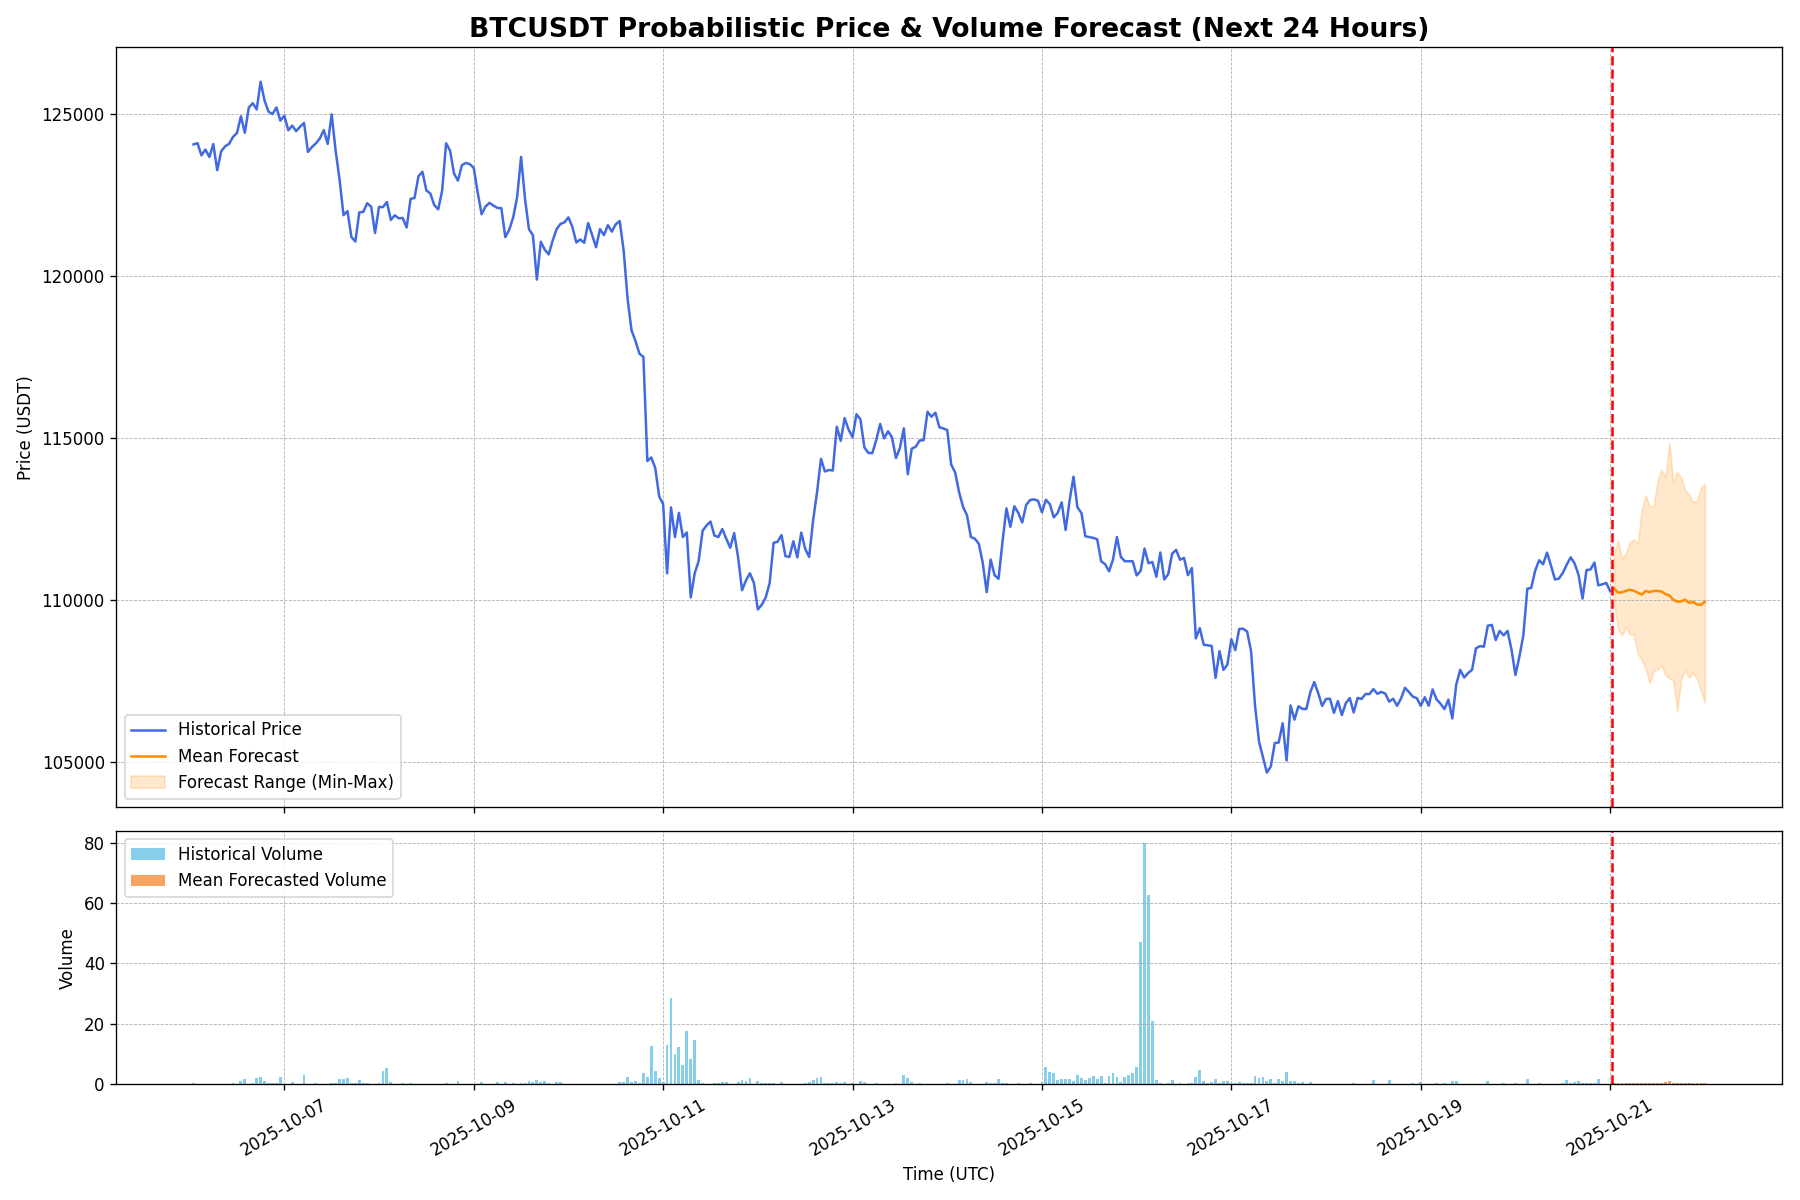
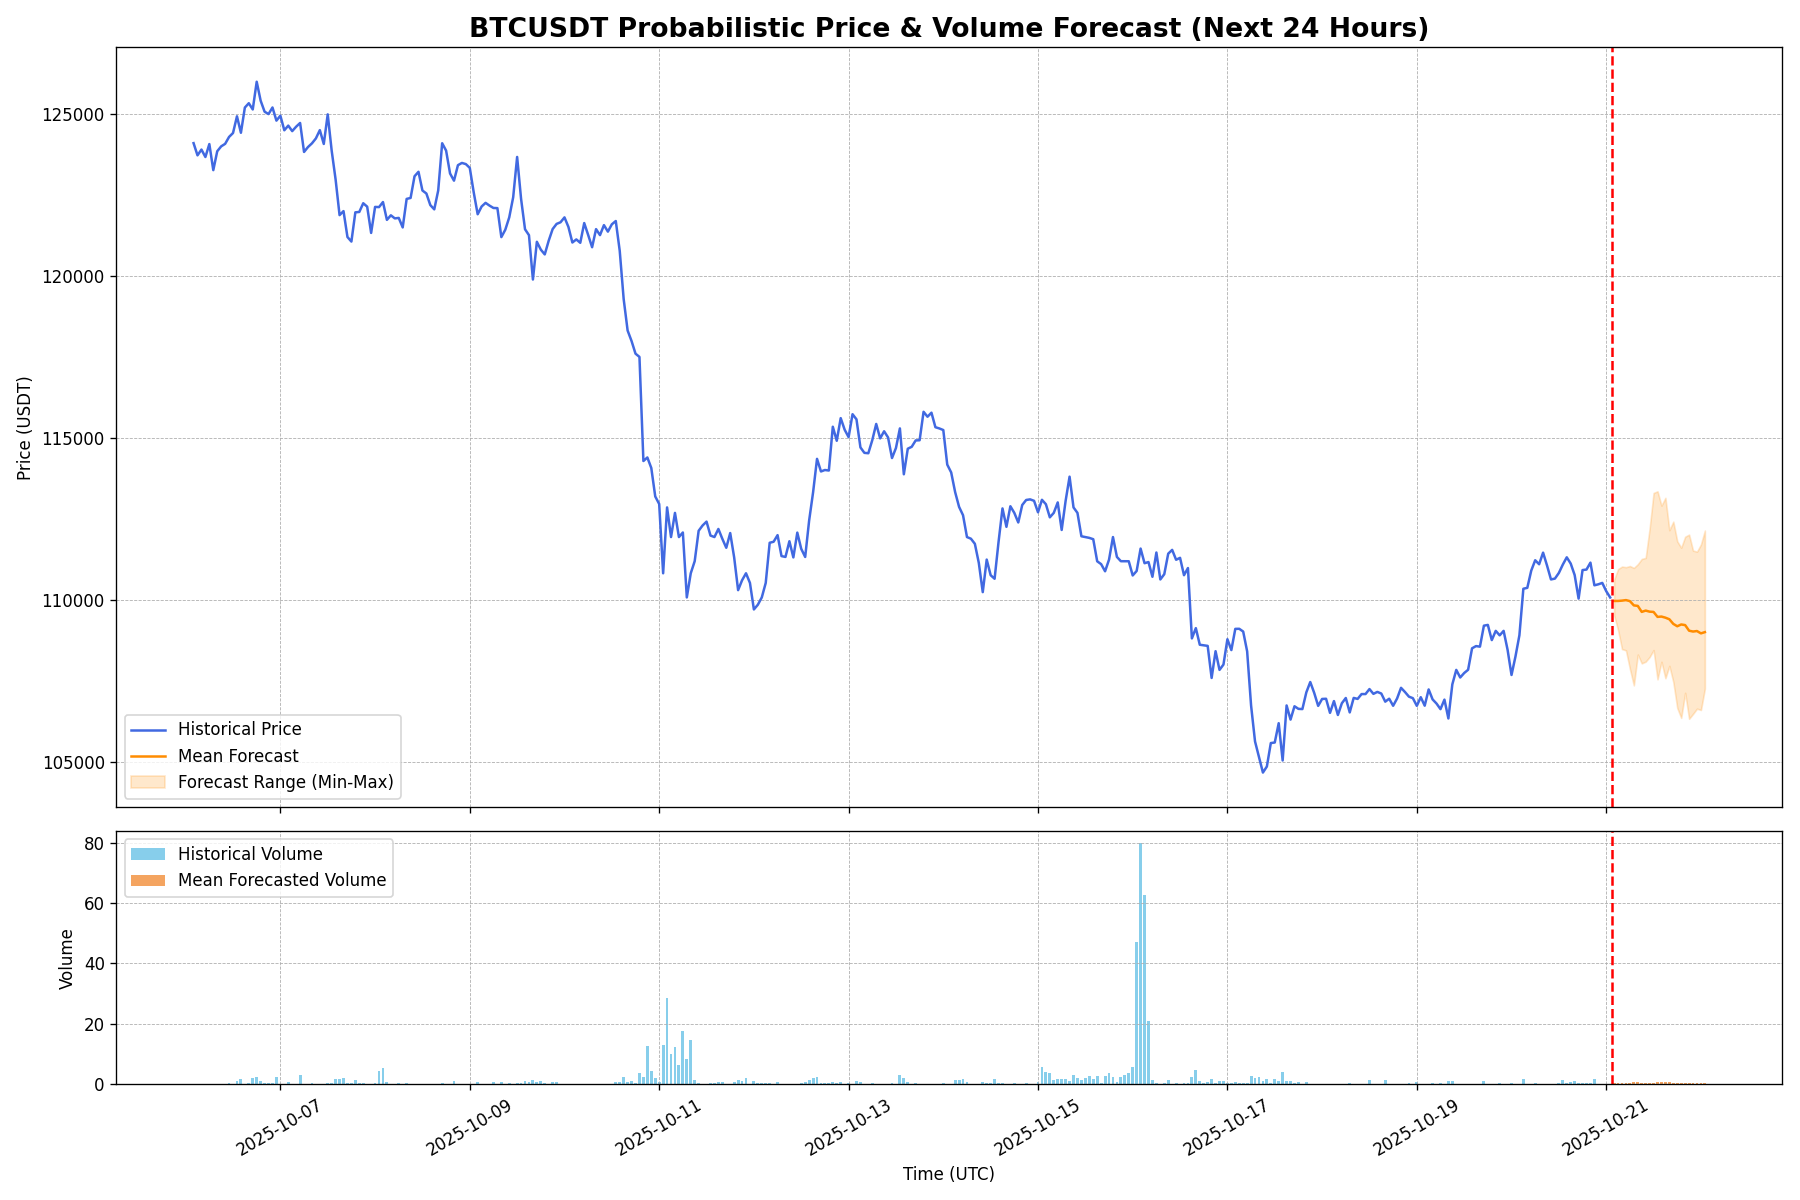
Auto-update forecast for 2025-10-21 02:03 UTC

diff --git a/index.html b/index.html
@@ -22,19 +22,19 @@
         <section id="live-dashboard">
             <h2>Live BTC/USDT Forecast Dashboard</h2>
             <div class="metadata">
-                <span>Last Updated (UTC): <strong id="update-time">2025-10-21 01:52:15</strong></span>
+                <span>Last Updated (UTC): <strong id="update-time">2025-10-21 02:03:51</strong></span>
                 <span>Data Source: Binance | Interval: 1-Hour</span>
             </div>
 
             <div class="metrics-container">
                 <div class="metric-card">
                     <h3>Upside Probability (Next 24h)</h3>
-                    <p class="metric-value" id="upside-prob">30.0%</p>
+                    <p class="metric-value" id="upside-prob">10.0%</p>
                     <div class="metric-desc">The model's confidence that the price in 24 hours will be higher than the last known price.</div>
                 </div>
                 <div class="metric-card">
                     <h3>Volatility Amplification (Next 24h)</h3>
-                    <p class="metric-value" id="vol-amp-prob">13.3%</p>
+                    <p class="metric-value" id="vol-amp-prob">3.3%</p>
                     <div class="metric-desc">The probability that predicted volatility over the next 24h will exceed recent historical volatility.</div>
                 </div>
             </div>
